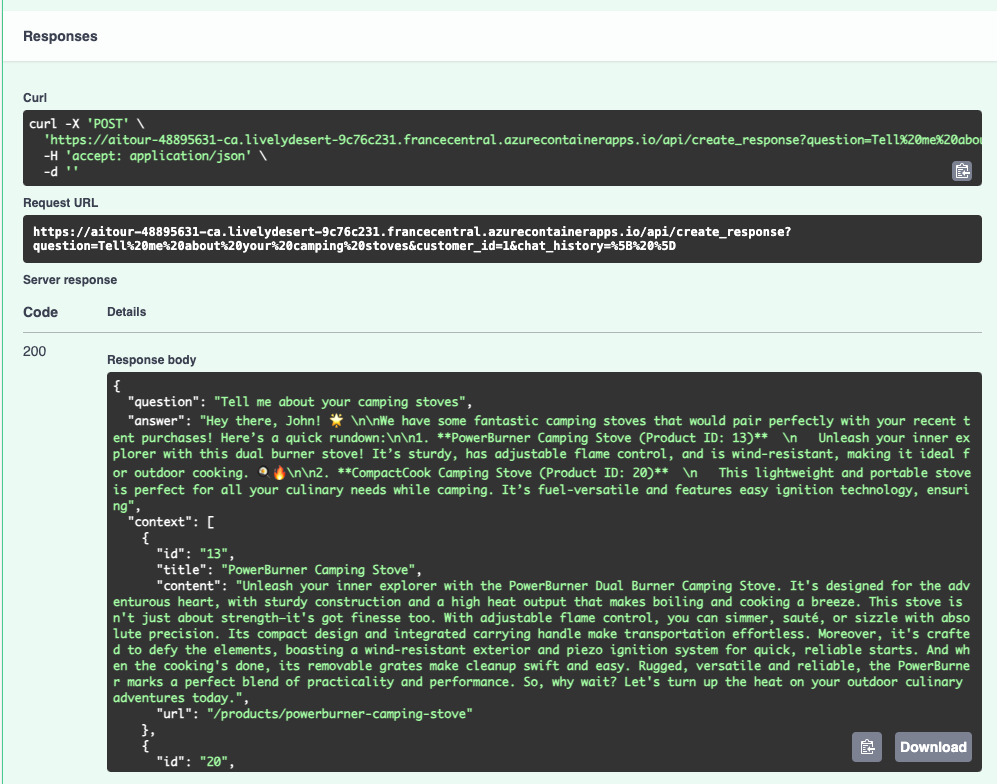
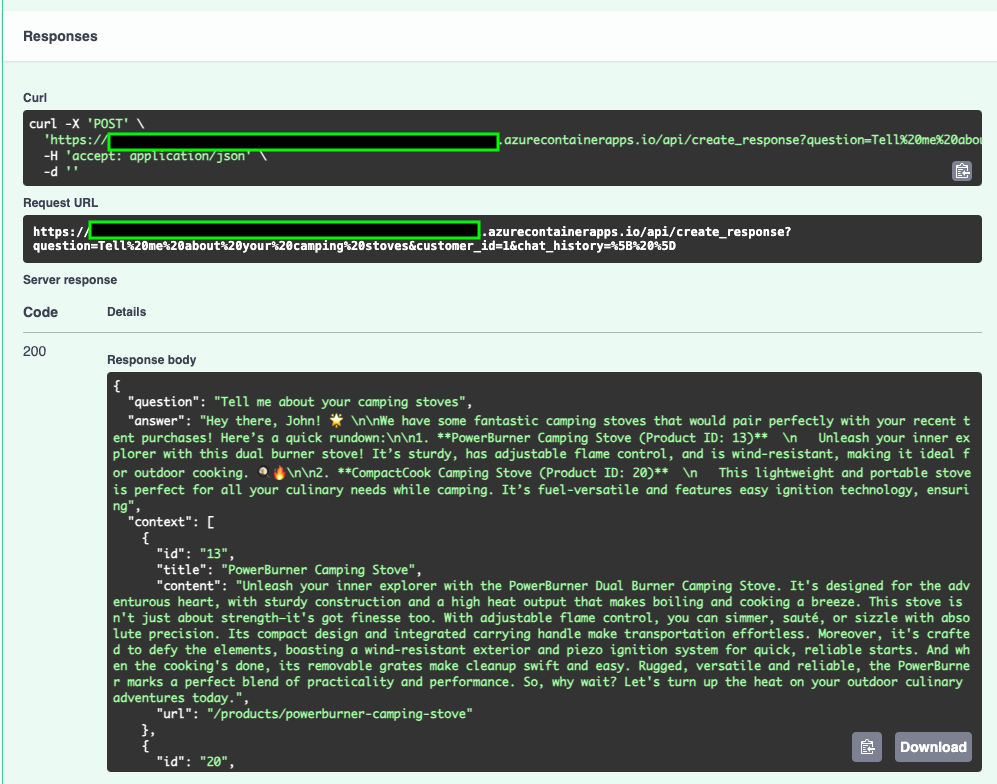
fix / refresh-v2 (recorded walkthrough)

Changed region(s): [[0.0933, 0.1531, 0.4975, 0.2143], [0.0622, 0.2755, 0.4975, 0.3061]]

diff --git a/docs/workshop/docs/2-Workshop/01-Setup/2-Provisioning/02-Skillable.md b/docs/workshop/docs/2-Workshop/01-Setup/2-Provisioning/02-Skillable.md
@@ -40,7 +40,7 @@ You should see a screen similar to that in the screenshot below.
 The repository is configured with a _devcontainer_ (defining the development environment) and GitHub Codespaces _prebuild_ that will launch almost instantly, with one click. Let's activate it.
 
 
-### 3.1 Activate The Prebuild
+### 2.1 Activate The Prebuild
 
 1. Open a new browser tab and navigate to the link below. 
 
@@ -63,7 +63,7 @@ The repository is configured with a _devcontainer_ (defining the development env
 **Congratulations!** Your development environment is active!
 
 
-### 3.2 Fork The Repo
+### 2.2 Fork The Repo
 
 The prebuild uses the _original repo_ but we want you to maintain a personal copy so you can make changes. This also gives you a sandbox you can revisit at home, to modify or complete at your own pace. We'll do this in two steps.
 
@@ -97,13 +97,13 @@ The prebuild uses the _original repo_ but we want you to maintain a personal cop
 
 ---
 
-## 4. Authenticate with Azure
+## 3. Authenticate with Azure
 
 We have an active development environment connected to our personal fork of the repo. Now it's time to configure it to talk to the Azure infrastructure we pre-provisioned for you. We'll use two different tools - `az` (Azure CLI) and `azd` (Azure Developer CLI). Let's log into both.
 
 !!! warning "IMPORTANT: DO NOT USE PERSONAL AZURE CREDENTIALS HERE. Instead, revisit the Skillable VM tab and look for the Azure Credentials section in the instructions pane. Use that Username and Password."
 
-### 4.1 Azure CLI login
+### 3.1 Azure CLI login
 
 1. Run this command in terminal. Complete workflow when prompted. 
 
@@ -114,7 +114,7 @@ We have an active development environment connected to our personal fork of the 
 1. You will have opened a new tab to complete auth workflow. You can close that now.
 1. Return to GitHub Codespaces tab and VS Code terminal to continue.
 
-### 4.2 Azure Developer CLI login
+### 3.2 Azure Developer CLI login
 
 1. Run this command in terminal. Complete workflow when prompted. 
 
@@ -132,7 +132,7 @@ We have an active development environment connected to our personal fork of the 
 
 ---
 
-## 5. Configure Env Variables
+## 4. Configure Env Variables
 
 Your development environment contains the code for a working application. Your Azure subscription is pre-provisioned with required infrastructure. We need need to set those environment variables locally, for development. **The `azd` tool makes this easy**.
 
@@ -157,43 +157,31 @@ Your development environment contains the code for a working application. Your A
 
 ---
 
-## 6. Upload Your Data
+## 5. Upload Your Data
 
-Let's recap what we've done - we're almost ready. There's just that last step!
+!!! info "NOTE: This step is required only in the Skillable track and is automated for the Self-Guided option (different process)."
 
-- [X] Our infrastructure is provisioned!
-- [X] Our application is deployed!
-- [X] Our development environment is configured and ready!
-- [ ] Our product catalog (index) and customer orders (database) are populated.
+Retrieval Augemented Generation (RAG) requires us to ground AI responses in our data. In this step we upload the product catalog data to Azure AI Search - and create an index. We also upload the customer orders history to Azure CosmosDB - and create a database. Chat responses are now grounded in both sources.
 
-!!! info "NOTE: This step is currently required only in the Skillable track. It's automated for the Self-Guided option."
+**We do this in two steps. The entire process takes 2-3 minutes to complete**.
 
-    *What are we doing?*
+1. Run this command. This gives your user identity "write" access to those resources.
 
-    - RAG requires use to ground responses in our data. 
-    - We upload product data to Azure AI Search (create an index)
-    - We upload customer history to Azure CosmosDB (create a database). 
-    - We can then query both sources using the RAG pattern, to return grounded responses for a user question.
+    ``` title="" linenums="0"
+    bash ./docs/workshop/src/0-setup/azd-update-roles.sh
+    ```
 
-    _How are we doing this?_ 
-    
-    - **Run this command** - We give this user identity "write" access to those resources.
+1. Run this command. This uploads the data and creates the index and database for you.
 
-        ``` title="" linenums="0"
-        bash ./docs/workshop/src/0-setup/azd-update-roles.sh
-        ```
-
-    - **Run this command** - We upload the data and create the required index. 
-
-        ``` title="" linenums="0"
-        azd hooks run postdeploy
-        ```
+    ``` title="" linenums="0"
+    azd hooks run postdeploy
+    ```
 
 **Congratulations!** You have a working application you can test now on Azure!
 
 ---
 
-## 7. Test Your Application
+## 6. Test Your Application
 
 Recall that we are building the chat AI part of Contoso Chat as shown in this architecture:
 
@@ -201,7 +189,7 @@ Recall that we are building the chat AI part of Contoso Chat as shown in this ar
 
 With this setup, we've deployed an Azure Container App that contains our working application, and we've populated the data that it will use for grounded responses. **Let's validate setup quickly!**.
 
-### 7.1 View Deployed App
+### 6.1 View Deployed App
 
 !!! tip "TIP: To validate deployment, we'll see if the Azure Container App is live with our heartbeat message."
 
@@ -223,36 +211,36 @@ With this setup, we've deployed an Azure Container App that contains our working
 
         ![Hello ACA](./../../../img/hello-world-aca.png)
 
-**Congratulations**. This is a "heartbeat" message that tells us the Azure Container App is deployed with our chat AI - and the API endpoint is live.
+**This is a "heartbeat" message** that confirms our chat AI app was deployed and is live!
 
 
-### 7.2 Test Deployed App
+### 6.2 Test Deployed App
 
 !!! tip "TIP: To validate data is populated, we'll test our deployed API with a question."
 
-1. Check your Application Url above will  → It will end with `.azurecontainerapps.io`.
-1. Append `/docs` to this  → The link will now end in `.azurecontainerapps.io/docs`.
-1. Hit enter to navigate to _this_ new link. You should see something like this:
-
-    !!! info "TIP: This is a Swagger documentation page that lets you try out the live API endpoint"
+1. Continue from previous step   → Note the page URL ends with `.azurecontainerapps.io`.
+1. Append `/docs`  → The updated link will now end with `.azurecontainerapps.io/docs`.
+1. Hit enter to navigate to _this_ new link  → This opens a Swagger page for testing as shown:
 
     ![API ACA](./../../../img/create-responses-aca.png)
 
 1. Click the down arrow on the POST section  → You will see a **Try it out** button.
 1. Click this to make the fields below editable  → Then fill in this data.
-5. It will open up to show you the API dialog for testing as shown below.
     - Set question to:  `Tell me about your camping stoves`
     - Set customer id to: `1`
     - Set chat history to: `[ ]`
-    - **Click the blue Execute button!**
+1. Click the blue Execute button to send the request with this data to that app endpoint.
 
     ![API ACA](./../../../img/test-responses-aca.png)
 
-6. In a few seconds, the **Responses** section should update like this:
+1. In a few seconds, the **Responses** section will update (see Screenshot below). Verify:
+
     - You should see the **question** you posted
     - You should see a relevant **answer**.
     - You should see the retrieved **context** used to ground the response.
+    - You see your application Url in the green-highlighted boxes.
 
     ![API ACA](./../../../img/view-responses-aca.png)
+
 
 !!! success "CONGRATULATIONS! You completed Provision & Setup - and validated your app works!"

diff --git a/docs/workshop/docs/2-Workshop/02-Ideate/05.md b/docs/workshop/docs/2-Workshop/02-Ideate/05.md
@@ -91,6 +91,10 @@ This is because the code is missing a vital import. Let's fix that, next!
         
 1. Run `chat-3.py` again. You should now see a valid response being generated. 
 
+    !!! info "You may see error traces occasionally at the end of the run. You can ignore those for now."
+
+    Prompty is currenty in preview and is actively being updated so expect these tools and features to keep evolving.
+
 <!--
     !!! tip "Press Alt-Z (or Cmd-Z on Mac) to toggle word wrap. This will make the prompts in the `.prompty` file easier to read within the limited screen view."
 -->

diff --git a/docs/workshop/docs/2-Workshop/01-Setup/2-Provisioning/01-Self-Guided.md b/docs/workshop/docs/2-Workshop/01-Setup/2-Provisioning/01-Self-Guided.md
@@ -164,7 +164,7 @@ This repository is an [AI Application Template](https://aka.ms/ai-apps) that can
 1. Wait for the process to complete. It may take 15-20 minutes or more.
 1. On successful completion you will see a **`SUCCESS: ...`** message on the console.
 
-!!! success "CONGRATULATIONS. You've completed Setup! **[JUMP AHEAD TO IDEATION](./../../02-Ideate/) NEXT**."
+!!! success "CONGRATULATIONS. You've completed Setup! **[JUMP AHEAD TO IDEATION](./../../02-Ideate/index.md) NEXT**."
 
 
 

diff --git a/docs/workshop/docs/2-Workshop/02-Ideate/index.md b/docs/workshop/docs/2-Workshop/02-Ideate/index.md
@@ -1,6 +1,6 @@
 # 3. Ideate With Prompty
 
-!!! warning "THIS SECTION IS FOR INFORMATION ONLY → If time is limited, skip to the next section for the lab."
+!!! warning "THIS SECTION IS FOR INFORMATION ONLY → Skip to the next section to get started on exercises."
 
 The infrastructure is provisioned. The development environment is setup. It's time to ideate.
 
